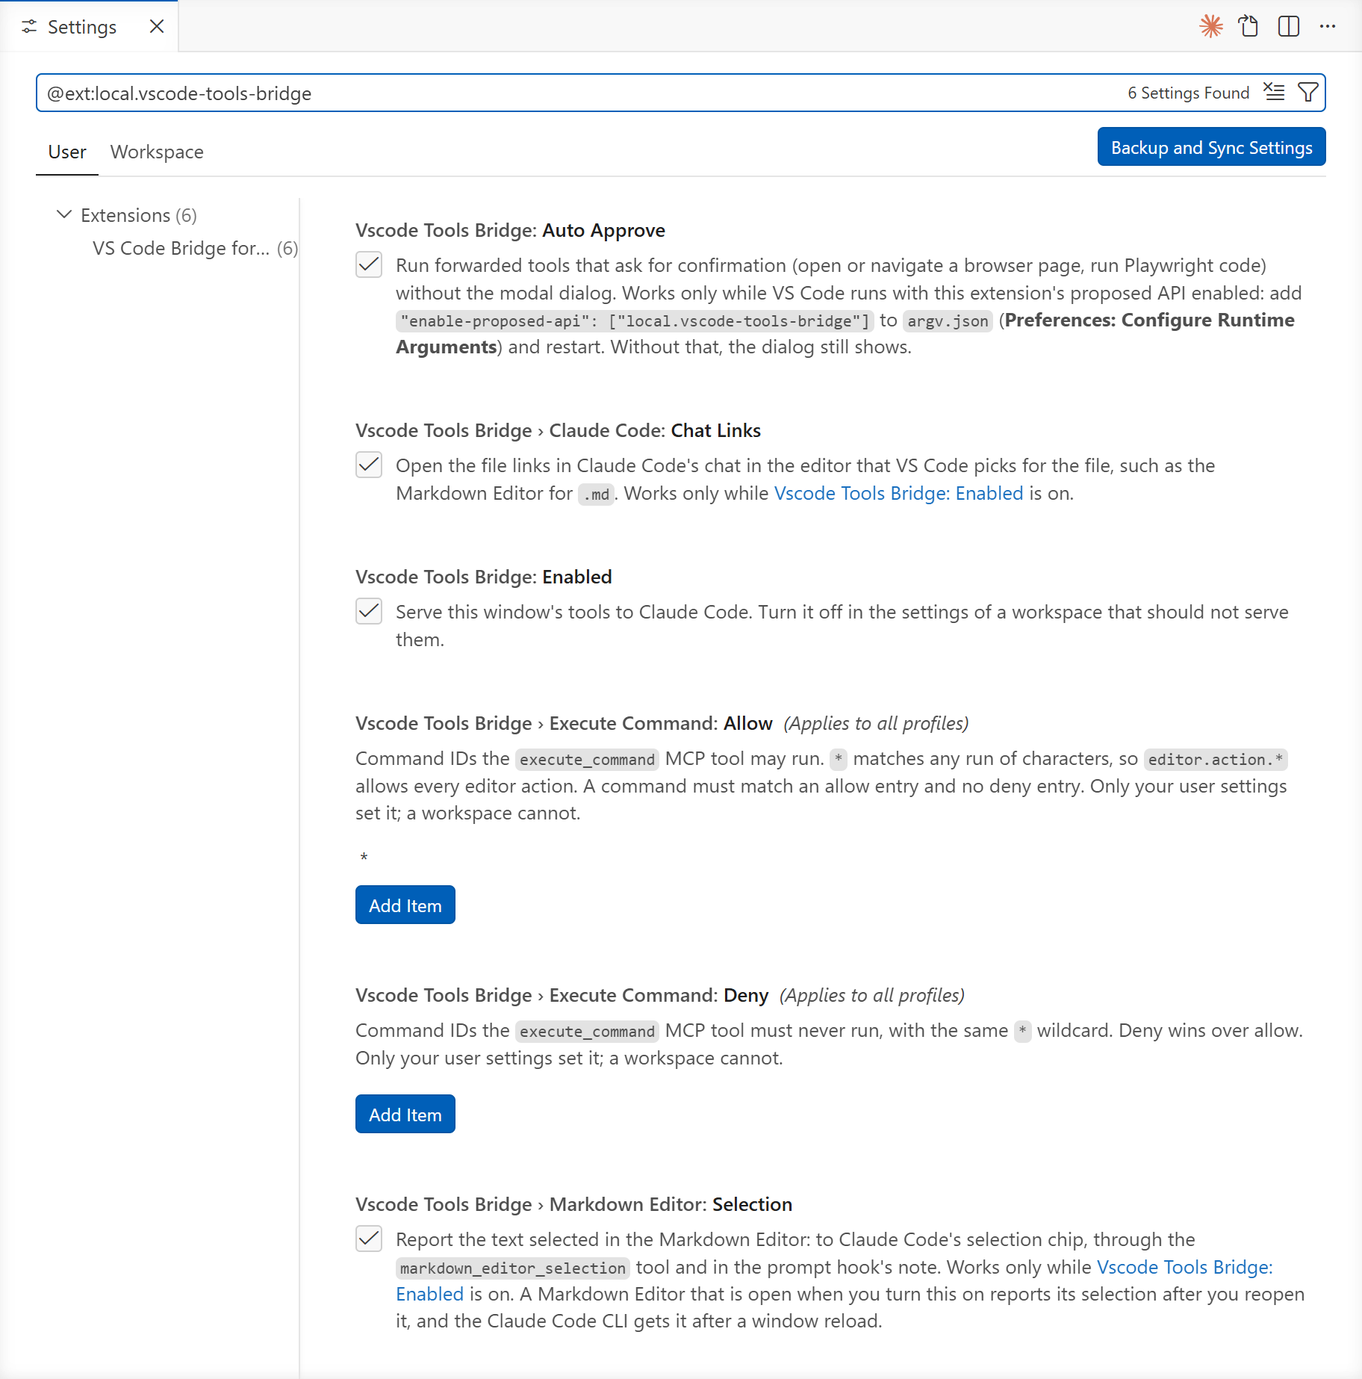
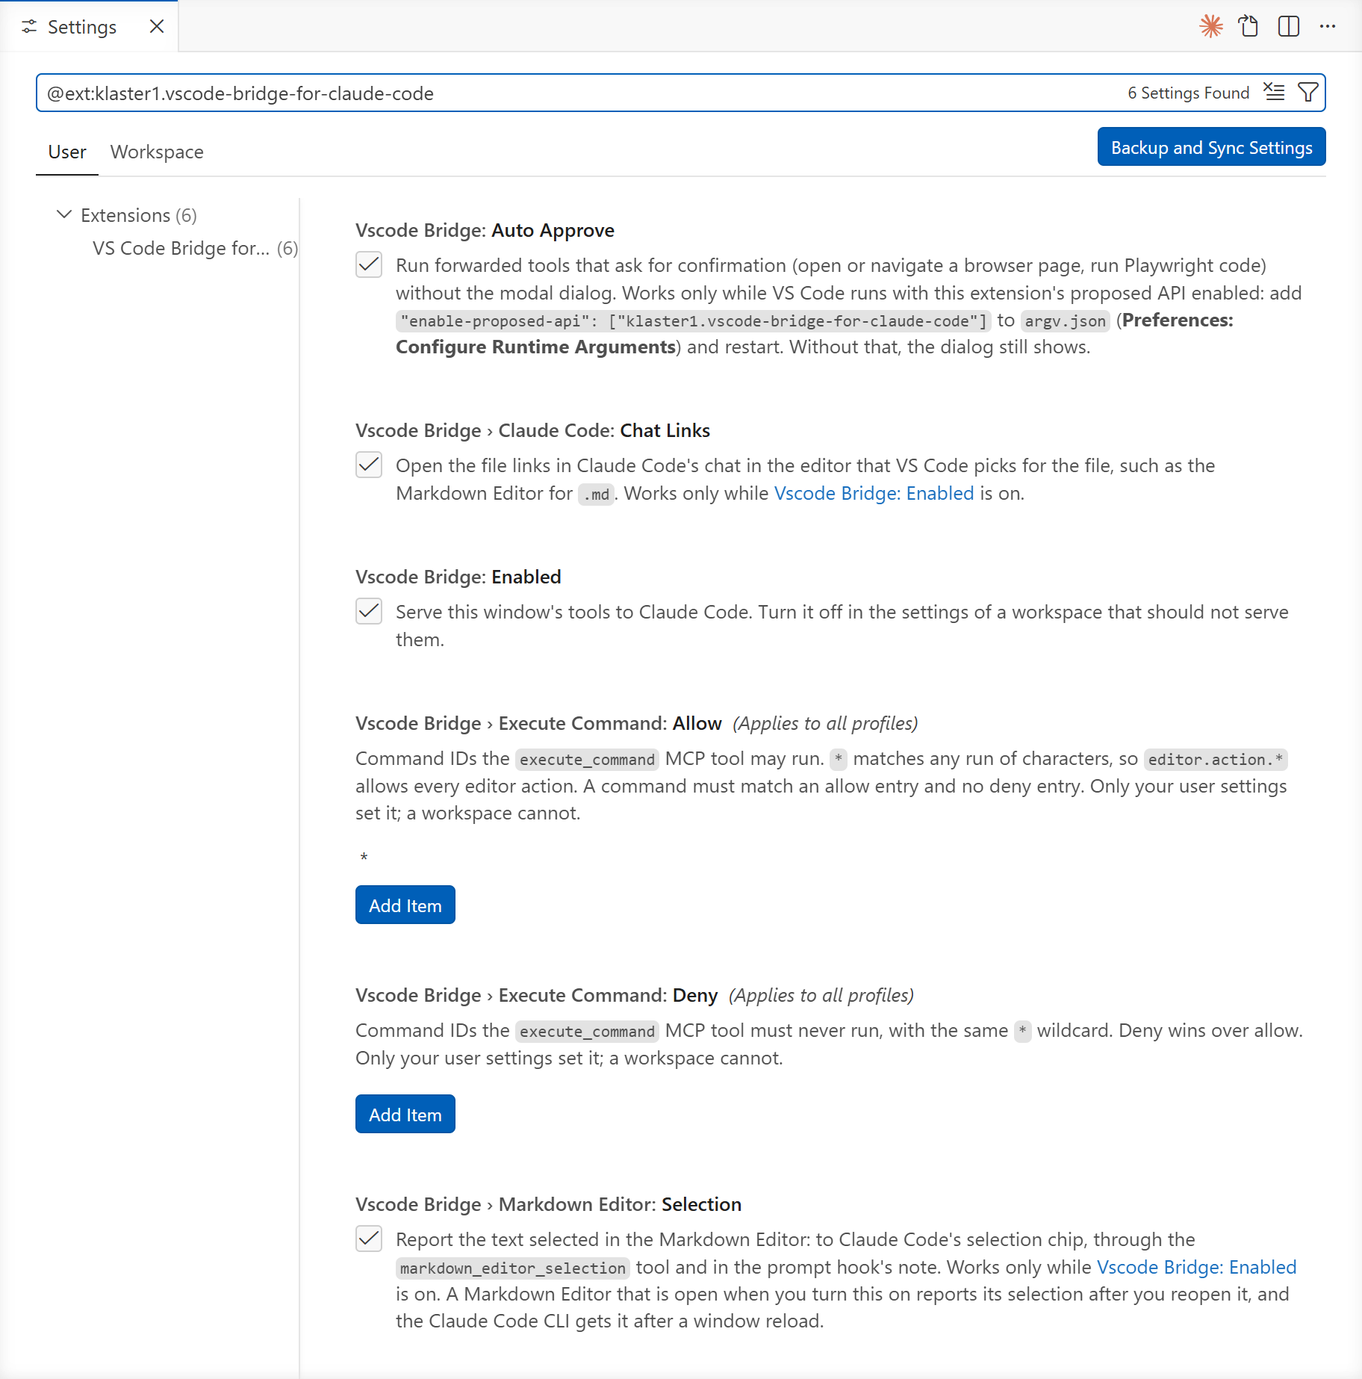
Rename the extension, settings and discovery folder to the project's name
The extension ID is klaster1.vscode-bridge-for-claude-code (publisher klaster1,
name vscode-bridge-for-claude-code). The settings move from vscodeToolsBridge.*
to vscodeBridge.*. The discovery folder, the named pipe prefix, the test
override variable (VSCODE_BRIDGE_DIR), the launcher's messages and the install
skill's folder follow. The MCP server name vscode-tools and the plugin name
vscode-bridge stay.

The settings screenshot shows the new names.

diff --git a/test/run.ts b/test/run.ts
@@ -8,7 +8,7 @@
 //   node test/run.ts            (Node 22.18+), extension loaded from source
 //   BRIDGE_TEST_VSIX=path\to.vsix node test/run.ts   installs that VSIX into the
 //                                isolated extensions folder and tests it instead
-//   BRIDGE_TEST_AUTO_APPROVE=1   turns on vscodeToolsBridge.autoApprove and the
+//   BRIDGE_TEST_AUTO_APPROVE=1   turns on vscodeBridge.autoApprove and the
 //                                proposed API it needs; with BRIDGE_TEST_NO_CLICK=1
 //                                the browser tools must then run with no dialog
 //   BRIDGE_TEST_NO_CLICK=1       leaves the confirmation dialogs for a person
@@ -39,7 +39,7 @@ const root = dirname(dirname(fileURLToPath(import.meta.url)));
 const run = join(root, '.vscode-test', 'run');
 const workspace = join(run, 'workspace');
 const discovery = join(run, 'discovery');
-process.env['VSCODE_TOOLS_BRIDGE_DIR'] = discovery;
+process.env['VSCODE_BRIDGE_DIR'] = discovery;
 
 rmSync(run, { recursive: true, force: true });
 mkdirSync(join(run, 'user-data', 'User'), { recursive: true });
@@ -47,7 +47,7 @@ mkdirSync(join(run, 'extensions'), { recursive: true });
 cpSync(join(root, 'test', 'fixture'), workspace, { recursive: true });
 // A workspace that empties the user's deny list, as a cloned repo's .vscode/settings.json could. The deny list is in the user settings below.
 mkdirSync(join(workspace, '.vscode'));
-writeFileSync(join(workspace, '.vscode', 'settings.json'), JSON.stringify({ 'vscodeToolsBridge.executeCommand.deny': [] }));
+writeFileSync(join(workspace, '.vscode', 'settings.json'), JSON.stringify({ 'vscodeBridge.executeCommand.deny': [] }));
 const autoApprove = !!process.env['BRIDGE_TEST_AUTO_APPROVE'];
 const settingsFile = join(run, 'user-data', 'User', 'settings.json');
 // Settings a check turns on or off while the window runs.
@@ -58,13 +58,13 @@ const writeSettings = (enabled: boolean) => writeFileSync(settingsFile, JSON.str
 	'telemetry.telemetryLevel': 'off',
 	'workbench.startupEditor': 'none',
 	'workbench.editor.closeEmptyGroups': false, // The bridge's startup panel must leave no empty group behind.
-	'extensions.confirmedUriHandlerExtensionIds': ['local.vscode-tools-bridge'], // Skips the prompt that a link to an extension raises.
+	'extensions.confirmedUriHandlerExtensionIds': ['klaster1.vscode-bridge-for-claude-code'], // Skips the prompt that a link to an extension raises.
 	'workbench.editorAssociations': { '*.md': 'vscode.markdown.editor' },
 	'chat.agent.enabled': true,
 	'workbench.browser.enableChatTools': true,
-	'vscodeToolsBridge.executeCommand.deny': ['workbench.action.quit'],
-	'vscodeToolsBridge.enabled': enabled,
-	'vscodeToolsBridge.autoApprove': autoApprove,
+	'vscodeBridge.executeCommand.deny': ['workbench.action.quit'],
+	'vscodeBridge.enabled': enabled,
+	'vscodeBridge.autoApprove': autoApprove,
 	...overrides,
 }, null, 2));
 // Start disabled, to check the bridge stays off until the setting is turned on.
@@ -83,7 +83,7 @@ const exe = await downloadAndUnzipVSCode({ version: '1.138.0', cachePath: join(r
 // instance cannot mistake itself for a CLI call into the user's running VS Code.
 const env: NodeJS.ProcessEnv = {};
 for (const [k, v] of Object.entries(process.env)) {
-	if (!/^(VSCODE_|ELECTRON_)/.test(k) || k === 'VSCODE_TOOLS_BRIDGE_DIR') {
+	if (!/^(VSCODE_|ELECTRON_)/.test(k) || k === 'VSCODE_BRIDGE_DIR') {
 		env[k] = v;
 	}
 }
@@ -113,7 +113,7 @@ const code = spawn(exe, [
 	'--skip-welcome',
 	'--skip-release-notes',
 	'--new-window',
-	...(autoApprove ? ['--enable-proposed-api=local.vscode-tools-bridge'] : []),
+	...(autoApprove ? ['--enable-proposed-api=klaster1.vscode-bridge-for-claude-code'] : []),
 	...(process.env['BRIDGE_TEST_TRACE'] ? ['--log=trace'] : []),
 ], { env, stdio: 'ignore' });
 
@@ -388,7 +388,7 @@ try {
 
 		// Each patch has its own setting, which takes effect without a reload.
 		const setSetting = async (key: string, value: boolean) => {
-			overrides[`vscodeToolsBridge.${key}`] = value;
+			overrides[`vscodeBridge.${key}`] = value;
 			writeSettings(true);
 			for (const end = Date.now() + 30_000; Date.now() < end; await sleep(500)) {
 				if (textOf(await call('execute_command', { command: 'standin.setting', args: [key] })) === String(value)) {
@@ -467,10 +467,10 @@ try {
 			}
 			return false;
 		};
-		openSettingsLink('vscode://local.vscode-tools-bridge/settings?id=vscodeToolsBridge.enabled&url=vscode%3A%2F%2Flocal.vscode-tools-bridge%2Fsettings%3Fid%3DvscodeToolsBridge.enabled');
+		openSettingsLink('vscode://klaster1.vscode-bridge-for-claude-code/settings?id=vscodeBridge.enabled&url=vscode%3A%2F%2Fklaster1.vscode-bridge-for-claude-code%2Fsettings%3Fid%3DvscodeBridge.enabled');
 		results.push({ name: 'a setting link opens the Settings editor', ok: await waitForLabel('Settings'), note: `active tab: ${await activeLabel()}` });
 		await call('execute_command', { command: 'workbench.action.closeActiveEditor' });
-		openSettingsLink('vscode://local.vscode-tools-bridge/settings?id=workbench.colorTheme');
+		openSettingsLink('vscode://klaster1.vscode-bridge-for-claude-code/settings?id=workbench.colorTheme');
 		await sleep(5000);
 		results.push({ name: 'a link to another extension\'s setting is ignored', ok: await activeLabel() !== 'Settings' && /Ignored the link/.test(bridgeLog()), note: `active tab: ${await activeLabel()}` });
 	}

diff --git a/src/tools.ts b/src/tools.ts
@@ -202,7 +202,7 @@ function matchesAny(id: string, patterns: readonly string[]): boolean {
 }
 
 function commandAllowed(id: string): boolean {
-	const config = vscode.workspace.getConfiguration('vscodeToolsBridge.executeCommand');
+	const config = vscode.workspace.getConfiguration('vscodeBridge.executeCommand');
 	return matchesAny(id, config.get<string[]>('allow', ['*'])) && !matchesAny(id, config.get<string[]>('deny', []));
 }
 
@@ -235,7 +235,7 @@ function reviveArg(v: unknown): unknown {
 const executeCommand: BridgeTool = {
 	definition: {
 		name: 'execute_command',
-		description: 'Run any VS Code command (vscode.commands.executeCommand) and return its result as JSON. No confirmation is shown; the vscodeToolsBridge.executeCommand.allow/deny settings limit which commands run. Arguments are JSON; write {"$uri": "path"} for a Uri, {"$position": {"line": 0, "character": 0}} for a Position and {"$range": {"start": {...}, "end": {...}}} for a Range (all 0-based, as in the VS Code API). Example: {"command": "vscode.executeDefinitionProvider", "args": [{"$uri": "src/a.ts"}, {"$position": {"line": 9, "character": 4}}]}.',
+		description: 'Run any VS Code command (vscode.commands.executeCommand) and return its result as JSON. No confirmation is shown; the vscodeBridge.executeCommand.allow/deny settings limit which commands run. Arguments are JSON; write {"$uri": "path"} for a Uri, {"$position": {"line": 0, "character": 0}} for a Position and {"$range": {"start": {...}, "end": {...}}} for a Range (all 0-based, as in the VS Code API). Example: {"command": "vscode.executeDefinitionProvider", "args": [{"$uri": "src/a.ts"}, {"$position": {"line": 9, "character": 4}}]}.',
 		inputSchema: {
 			type: 'object',
 			properties: {
@@ -248,7 +248,7 @@ const executeCommand: BridgeTool = {
 	async call(args) {
 		const id = str(args['command'], 'command');
 		if (!commandAllowed(id)) {
-			return text(`Command "${id}" is blocked by the vscodeToolsBridge.executeCommand allow/deny settings.`, true);
+			return text(`Command "${id}" is blocked by the vscodeBridge.executeCommand allow/deny settings.`, true);
 		}
 		const commandArgs = Array.isArray(args['args']) ? args['args'].map(reviveArg) : [];
 		const result = await vscode.commands.executeCommand(id, ...commandArgs);
@@ -349,7 +349,7 @@ const forwarded: Record<string, string> = {
 const confirming = new Set(['open_browser_page', 'navigate_page', 'run_playwright_code']);
 
 /**
- * With vscodeToolsBridge.autoApprove on, answers those confirmations the way a
+ * With vscodeBridge.autoApprove on, answers those confirmations the way a
  * chat preToolUse hook would, so VS Code runs the tool without the dialog.
  * Copilot never shows one because the chat path honours
  * chat.tools.global.autoApprove; the tokenless path ignores that setting and
@@ -359,7 +359,7 @@ const confirming = new Set(['open_browser_page', 'navigate_page', 'run_playwrigh
  * silently drops it otherwise, so the dialog then still shows.
  */
 function approval(): object {
-	return vscode.workspace.getConfiguration('vscodeToolsBridge').get<boolean>('autoApprove', true)
+	return vscode.workspace.getConfiguration('vscodeBridge').get<boolean>('autoApprove', true)
 		? { preToolUseResult: { permissionDecision: 'allow' } }
 		: {};
 }
@@ -520,7 +520,7 @@ const markdownEditorSelectionTool: BridgeTool = {
 	},
 	async call(args) {
 		if (!markdownSelectionRunning()) {
-			return text('The Markdown Editor selection is not being read: vscodeToolsBridge.markdownEditor.selection is off, or the output channel says why it could not start. After turning it on, reopen the editor.');
+			return text('The Markdown Editor selection is not being read: vscodeBridge.markdownEditor.selection is off, or the output channel says why it could not start. After turning it on, reopen the editor.');
 		}
 		const maxChars = typeof args['maxChars'] === 'number' ? args['maxChars'] : 4000;
 		const entries: string[] = [];

diff --git a/src/extension.ts b/src/extension.ts
@@ -2,7 +2,7 @@
 // private named pipe, and writes a discovery file that lets the Claude Code
 // plugin's launcher and prompt hook (../plugin/scripts/) find the pipe from
 // their working directory.
-// While vscodeToolsBridge.enabled is off, or the first workspace folder is not a
+// While vscodeBridge.enabled is off, or the first workspace folder is not a
 // local folder, it serves no tools and installs no runtime patches.
 
 import * as vscode from 'vscode';
@@ -35,11 +35,11 @@ export function activate(context: vscode.ExtensionContext): void {
 	context.subscriptions.push(vscode.window.registerUriHandler({
 		handleUri(uri) {
 			const id = uri.path === '/settings' ? new URLSearchParams(uri.query).get('id') : null;
-			if (id !== null && /^vscodeToolsBridge\.[\w.]+$/.test(id)) {
+			if (id !== null && /^vscodeBridge\.[\w.]+$/.test(id)) {
 				void vscode.commands.executeCommand('workbench.action.openSettings', id);
 			} else if (!refusedLogged) {
 				refusedLogged = true;
-				log.warn(`Ignored the link ${uri.toString()}: it is not a vscodeToolsBridge setting.`);
+				log.warn(`Ignored the link ${uri.toString()}: it is not a vscodeBridge setting.`);
 			}
 		},
 	}));
@@ -57,17 +57,17 @@ export function activate(context: vscode.ExtensionContext): void {
 			restart();
 		}),
 		vscode.workspace.onDidChangeConfiguration(e => {
-			if (e.affectsConfiguration('vscodeToolsBridge.enabled')) {
+			if (e.affectsConfiguration('vscodeBridge.enabled')) {
 				syncPatches();
 				restart();
-			} else if (patchSettings.some(([setting]) => e.affectsConfiguration(`vscodeToolsBridge.${setting}`))) {
+			} else if (patchSettings.some(([setting]) => e.affectsConfiguration(`vscodeBridge.${setting}`))) {
 				syncPatches();
 			}
 		}),
 	);
 }
 
-const isEnabled = (): boolean => vscode.workspace.getConfiguration('vscodeToolsBridge').get<boolean>('enabled', true)
+const isEnabled = (): boolean => vscode.workspace.getConfiguration('vscodeBridge').get<boolean>('enabled', true)
 	&& vscode.workspace.workspaceFolders?.[0]?.uri.scheme === 'file';
 
 /** The runtime patches, each switched by its own setting. */
@@ -78,7 +78,7 @@ const patchSettings: [setting: string, install: (report: (message: string) => vo
 
 /** Installs or removes each patch to match its setting; `removeAll` removes them regardless. */
 function syncPatches(removeAll = false): void {
-	const config = vscode.workspace.getConfiguration('vscodeToolsBridge');
+	const config = vscode.workspace.getConfiguration('vscodeBridge');
 	const enabled = !removeAll && isEnabled();
 	for (const [setting, install] of patchSettings) {
 		const wanted = enabled && config.get<boolean>(setting, true);
@@ -97,8 +97,8 @@ function syncPatches(removeAll = false): void {
 }
 
 async function start(): Promise<void> {
-	if (!vscode.workspace.getConfiguration('vscodeToolsBridge').get<boolean>('enabled', true)) {
-		log.info('vscodeToolsBridge.enabled is off; bridge not started.');
+	if (!vscode.workspace.getConfiguration('vscodeBridge').get<boolean>('enabled', true)) {
+		log.info('vscodeBridge.enabled is off; bridge not started.');
 		return;
 	}
 	const folder = vscode.workspace.workspaceFolders?.[0];
@@ -113,7 +113,7 @@ async function start(): Promise<void> {
 }
 
 async function serveMcp(input: PassThrough, socket: Socket): Promise<void> {
-	const server = new Server({ name: 'vscode-tools-bridge', version }, { capabilities: { tools: {} }, instructions: serverInstructions });
+	const server = new Server({ name: 'vscode-bridge-for-claude-code', version }, { capabilities: { tools: {} }, instructions: serverInstructions });
 	const info = () => ({
 		...(bridge.current ? { folder: bridge.current.record.folder, pipe: bridge.current.record.pipe, discoveryFile: bridge.current.file } : {}),
 		// Shows the extension host runs this .ts source through Node type stripping.

diff --git a/scripts/generate-screenshots.ts b/scripts/generate-screenshots.ts
@@ -190,7 +190,7 @@ Object.assign(env, {
 	DISABLE_AUTOUPDATER: '1',
 });
 // The bridge's default discovery folder is under LOCALAPPDATA, so it is isolated too. A
-// VSCODE_TOOLS_BRIDGE_DIR would not reach the CLI: VS Code drops VSCODE_* variables from terminals.
+// VSCODE_BRIDGE_DIR would not reach the CLI: VS Code drops VSCODE_* variables from terminals.
 process.env['LOCALAPPDATA'] = env['LOCALAPPDATA'];
 // The plugin from the working tree, as `npm run setup` installs it: it loads in place.
 for (const args of [['plugin', 'marketplace', 'add', root], ['plugin', 'install', 'vscode-bridge@vscode-bridge']]) {
@@ -204,7 +204,7 @@ const inputs = hashInputs(root); // Before packaging, so the record matches the 
 const vscodeVersion = '1.138.0';
 const exe = await downloadAndUnzipVSCode({ version: vscodeVersion, cachePath: join(root, '.vscode-test') });
 // Installed from a VSIX, as users get it: --extensionDevelopmentPath would put "[Extension Development Host]" in the title.
-const vsix = join(run, 'vscode-tools-bridge.vsix');
+const vsix = join(run, 'vscode-bridge-for-claude-code.vsix');
 const packaged = spawnSync(process.execPath, [join(root, 'node_modules', '@vscode', 'vsce', 'vsce'), 'package', '--allow-missing-repository', '--allow-star-activation', '--no-rewrite-relative-links', '--out', vsix], { cwd: root, encoding: 'utf8' });
 if (packaged.status !== 0) {
 	throw new Error(`vsce package failed:\n${packaged.stdout}\n${packaged.stderr}`);
@@ -342,7 +342,7 @@ try {
 
 	// Settings.
 	await resize(960, 980);
-	await command('workbench.action.openSettings', '@ext:local.vscode-tools-bridge');
+	await command('workbench.action.openSettings', '@ext:klaster1.vscode-bridge-for-claude-code');
 	await page.locator('.settings-editor .setting-item-contents').first().waitFor();
 	await sleep(500);
 	await page.keyboard.press('End'); // The search box sometimes opens with its text selected.

diff --git a/src/markdownSelection.ts b/src/markdownSelection.ts
@@ -25,7 +25,7 @@ import * as vscode from 'vscode';
 import { claudeCodeApi } from './claudeApi.ts';
 
 const viewType = 'vscode.markdown.editor';
-const messageType = 'vscodeToolsBridge.markdownSelection';
+const messageType = 'vscodeBridge.markdownSelection';
 
 /** Offsets into the Markdown source, in the order the user made the selection. */
 interface Offsets { anchor: number; active: number }
@@ -312,7 +312,7 @@ function findOwner(start: object | null, name: string): { owner: object; descrip
 export function installMarkdownSelection(log: (message: string) => void): vscode.Disposable {
 	report = log;
 	// Every extension's webviews share one prototype, so a throwaway panel gives access to the setter the Markdown extension uses. It opens in the active group: a new group would stay behind when workbench.editor.closeEmptyGroups is off.
-	const panel = vscode.window.createWebviewPanel('vscodeToolsBridge.probe', 'VS Code Bridge for Claude Code', { viewColumn: vscode.ViewColumn.Active, preserveFocus: true }, {});
+	const panel = vscode.window.createWebviewPanel('vscodeBridge.probe', 'VS Code Bridge for Claude Code', { viewColumn: vscode.ViewColumn.Active, preserveFocus: true }, {});
 	const prototype: object | null = Object.getPrototypeOf(panel.webview);
 	panel.dispose();
 	const html = findOwner(prototype, 'html');

diff --git a/plugin/scripts/discovery.ts b/plugin/scripts/discovery.ts
@@ -25,17 +25,17 @@ export interface DiscoveryRecord {
  * Directory holding one discovery file per window. On Windows it sits under the
  * user's profile, which only that user (and administrators) can read. Elsewhere
  * ensureDiscoveryDir makes it owner-only. That keeps the pipe name and token
- * private. VSCODE_TOOLS_BRIDGE_DIR moves it, which the isolated test instance uses.
+ * private. VSCODE_BRIDGE_DIR moves it, which the isolated test instance uses.
  */
 export function discoveryDir(): string {
-	const override = process.env['VSCODE_TOOLS_BRIDGE_DIR'];
+	const override = process.env['VSCODE_BRIDGE_DIR'];
 	if (override) {
 		return override;
 	}
 	const base = process.platform === 'win32'
 		? (process.env['LOCALAPPDATA'] ?? join(homedir(), 'AppData', 'Local'))
 		: join(homedir(), '.cache');
-	return join(base, 'vscode-tools-bridge');
+	return join(base, 'vscode-bridge-for-claude-code');
 }
 
 /** Creates the discovery folder for the owner only. Off Windows it also narrows an existing folder with wider permissions, since `mkdir` sets a mode only on a folder it creates. */

diff --git a/plugin/scripts/launcher.ts b/plugin/scripts/launcher.ts
@@ -21,7 +21,7 @@ for (let waited = 0; !record && waited < FIND_WINDOW_MS; waited += FIND_RETRY_MS
 	record = findRecord(cwd);
 }
 if (!record) {
-	process.stderr.write(`vscode-tools-bridge: no VS Code window has ${cwd} or a parent of it as its first workspace folder, or the bridge extension is not running there.\n`);
+	process.stderr.write(`vscode-bridge-for-claude-code: no VS Code window has ${cwd} or a parent of it as its first workspace folder, or the bridge extension is not running there.\n`);
 	process.exit(1);
 }
 
@@ -31,7 +31,7 @@ const socket = connect(record.pipe, () => {
 	socket.pipe(process.stdout);
 });
 socket.on('error', err => {
-	process.stderr.write(`vscode-tools-bridge: cannot reach the VS Code window for ${record.folder} at ${record.pipe}: ${err.message}. Is that window still open?\n`);
+	process.stderr.write(`vscode-bridge-for-claude-code: cannot reach the VS Code window for ${record.folder} at ${record.pipe}: ${err.message}. Is that window still open?\n`);
 	process.exit(1);
 });
 socket.on('close', () => process.exit(0));

diff --git a/plugin/scripts/prompt-hook.ts b/plugin/scripts/prompt-hook.ts
@@ -87,7 +87,7 @@ try {
 		// The SDK server answers requests in order, so the initialize handshake
 		// and the calls can go out together.
 		const results = await mcpCall(record.pipe, record.token, [
-			{ jsonrpc: '2.0', id: 1, method: 'initialize', params: { protocolVersion: '2025-06-18', capabilities: {}, clientInfo: { name: 'vscode-tools-bridge-prompt-hook', version: '0' } } },
+			{ jsonrpc: '2.0', id: 1, method: 'initialize', params: { protocolVersion: '2025-06-18', capabilities: {}, clientInfo: { name: 'vscode-bridge-for-claude-code-prompt-hook', version: '0' } } },
 			{ jsonrpc: '2.0', method: 'notifications/initialized' },
 			{ jsonrpc: '2.0', id: 2, method: 'tools/call', params: { name: 'shared_browser_pages', arguments: { snapshot: false } } },
 			{ jsonrpc: '2.0', id: 3, method: 'tools/call', params: { name: 'visible_images', arguments: {} } },

diff --git a/src/chatLinks.ts b/src/chatLinks.ts
@@ -71,7 +71,7 @@ export function installChatLinks(report: (message: string) => void): vscode.Disp
 				reportOnce(report, 'check', `checking a link failed: ${err instanceof Error ? err.message : String(err)}`);
 			}
 			// A rejected promise, not a throw: Claude Code chains .then on the result.
-			return reject ? Promise.reject(new Error('This file opens in a custom editor; vscode-tools-bridge leaves it to vscode.open.')) : original.apply(this, args);
+			return reject ? Promise.reject(new Error('This file opens in a custom editor; vscode-bridge-for-claude-code leaves it to vscode.open.')) : original.apply(this, args);
 		},
 	};
 	Object.defineProperty(window, 'showTextDocument', patched);

diff --git a/test/standin/extension.js b/test/standin/extension.js
@@ -44,7 +44,7 @@ exports.activate = context => {
 				return `rejected: ${err}`;
 			}
 		}),
-		vscode.commands.registerCommand('standin.setting', key => vscode.workspace.getConfiguration('vscodeToolsBridge').get(key)),
+		vscode.commands.registerCommand('standin.setting', key => vscode.workspace.getConfiguration('vscodeBridge').get(key)),
 		vscode.commands.registerCommand('standin.groupCount', () => vscode.window.tabGroups.all.length),
 		vscode.commands.registerCommand('standin.activeTab', () => {
 			const tab = vscode.window.tabGroups.activeTabGroup.activeTab;

diff --git a/src/bridgeServer.ts b/src/bridgeServer.ts
@@ -35,7 +35,7 @@ export function createBridgeListener(handlers: BridgeHandlers) {
 		const hash = folderHash(folder);
 		const record: DiscoveryRecord = {
 			pipe: process.platform === 'win32'
-				? `\\\\.\\pipe\\vscode-tools-bridge-${hash}-${randomBytes(8).toString('hex')}`
+				? `\\\\.\\pipe\\vscode-bridge-for-claude-code-${hash}-${randomBytes(8).toString('hex')}`
 				: join(discoveryDir(), `${hash}-${randomBytes(8).toString('hex')}.sock`),
 			token: randomBytes(32).toString('hex'),
 			folder,

diff --git a/test/bridge-server-check.ts b/test/bridge-server-check.ts
@@ -14,7 +14,7 @@ import { check, finish } from './harness.ts';
 
 const temp = mkdtempSync(join(tmpdir(), 'bc-'));
 const discovery = join(temp, 'missing', 'discovery'); // Not created: the listener must make it.
-process.env['VSCODE_TOOLS_BRIDGE_DIR'] = discovery;
+process.env['VSCODE_BRIDGE_DIR'] = discovery;
 
 // Every server the listener creates, and whether the discovery folder existed when it began to listen.
 const servers: Server[] = [];
